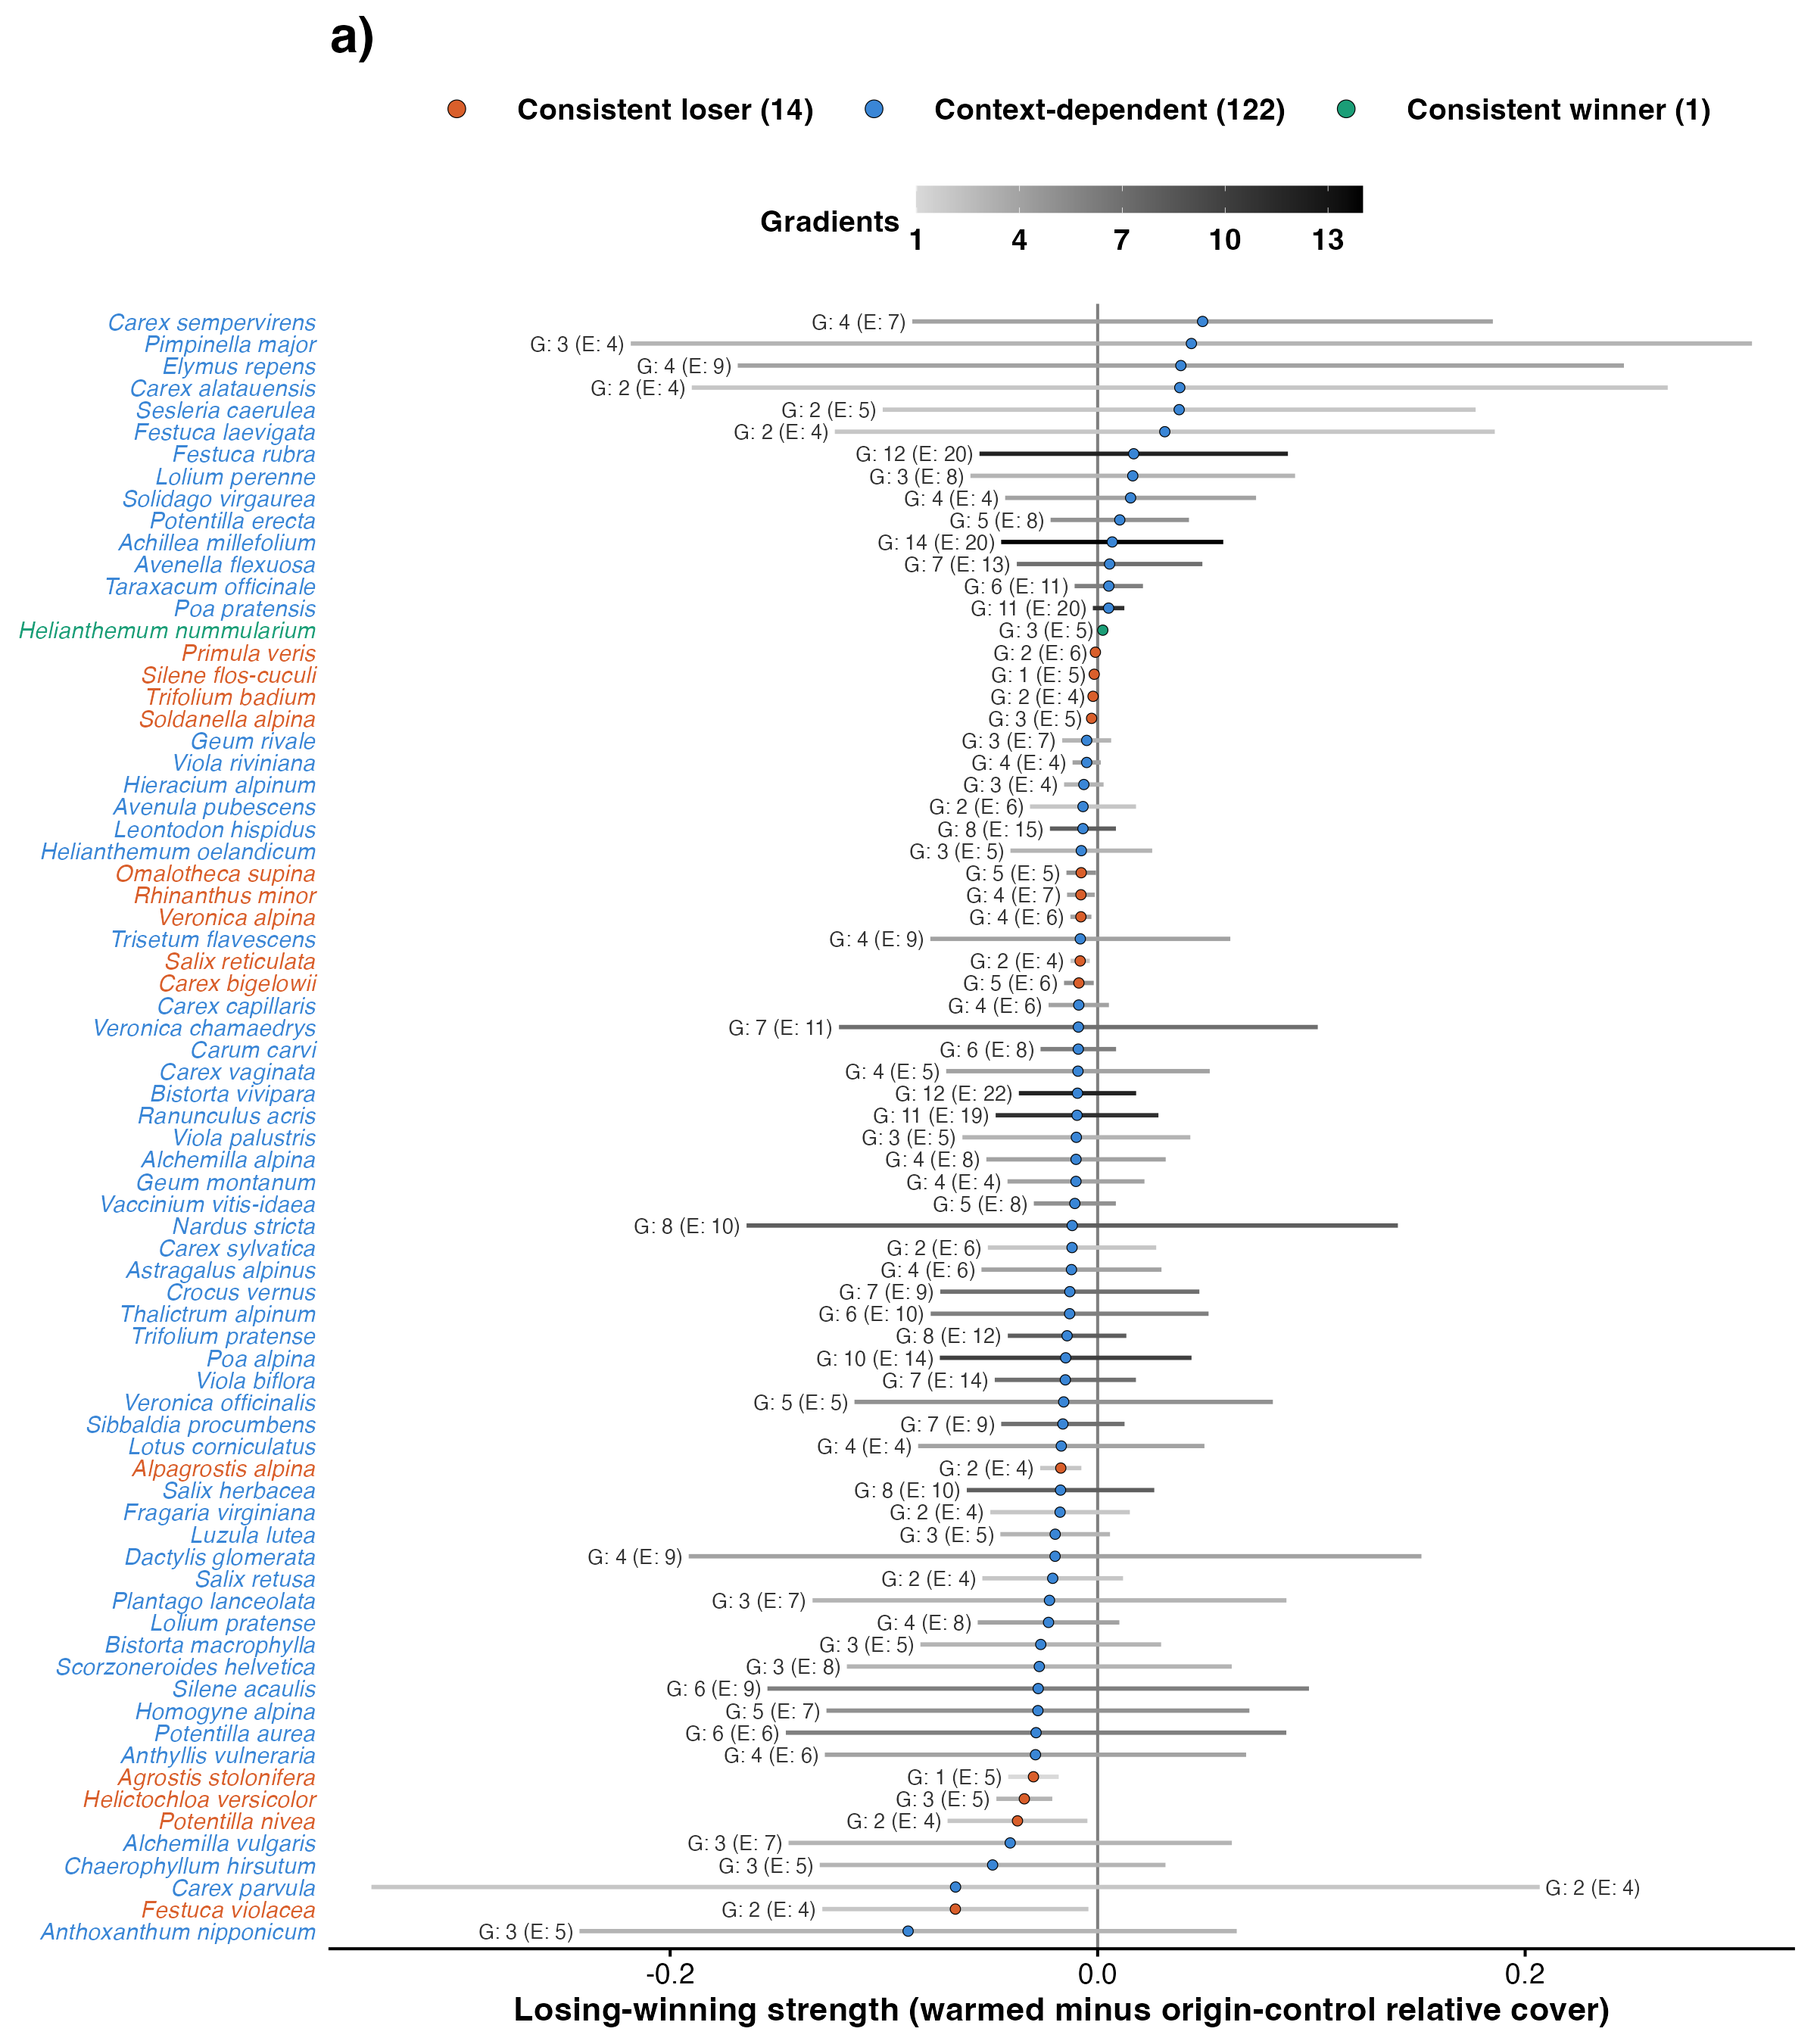
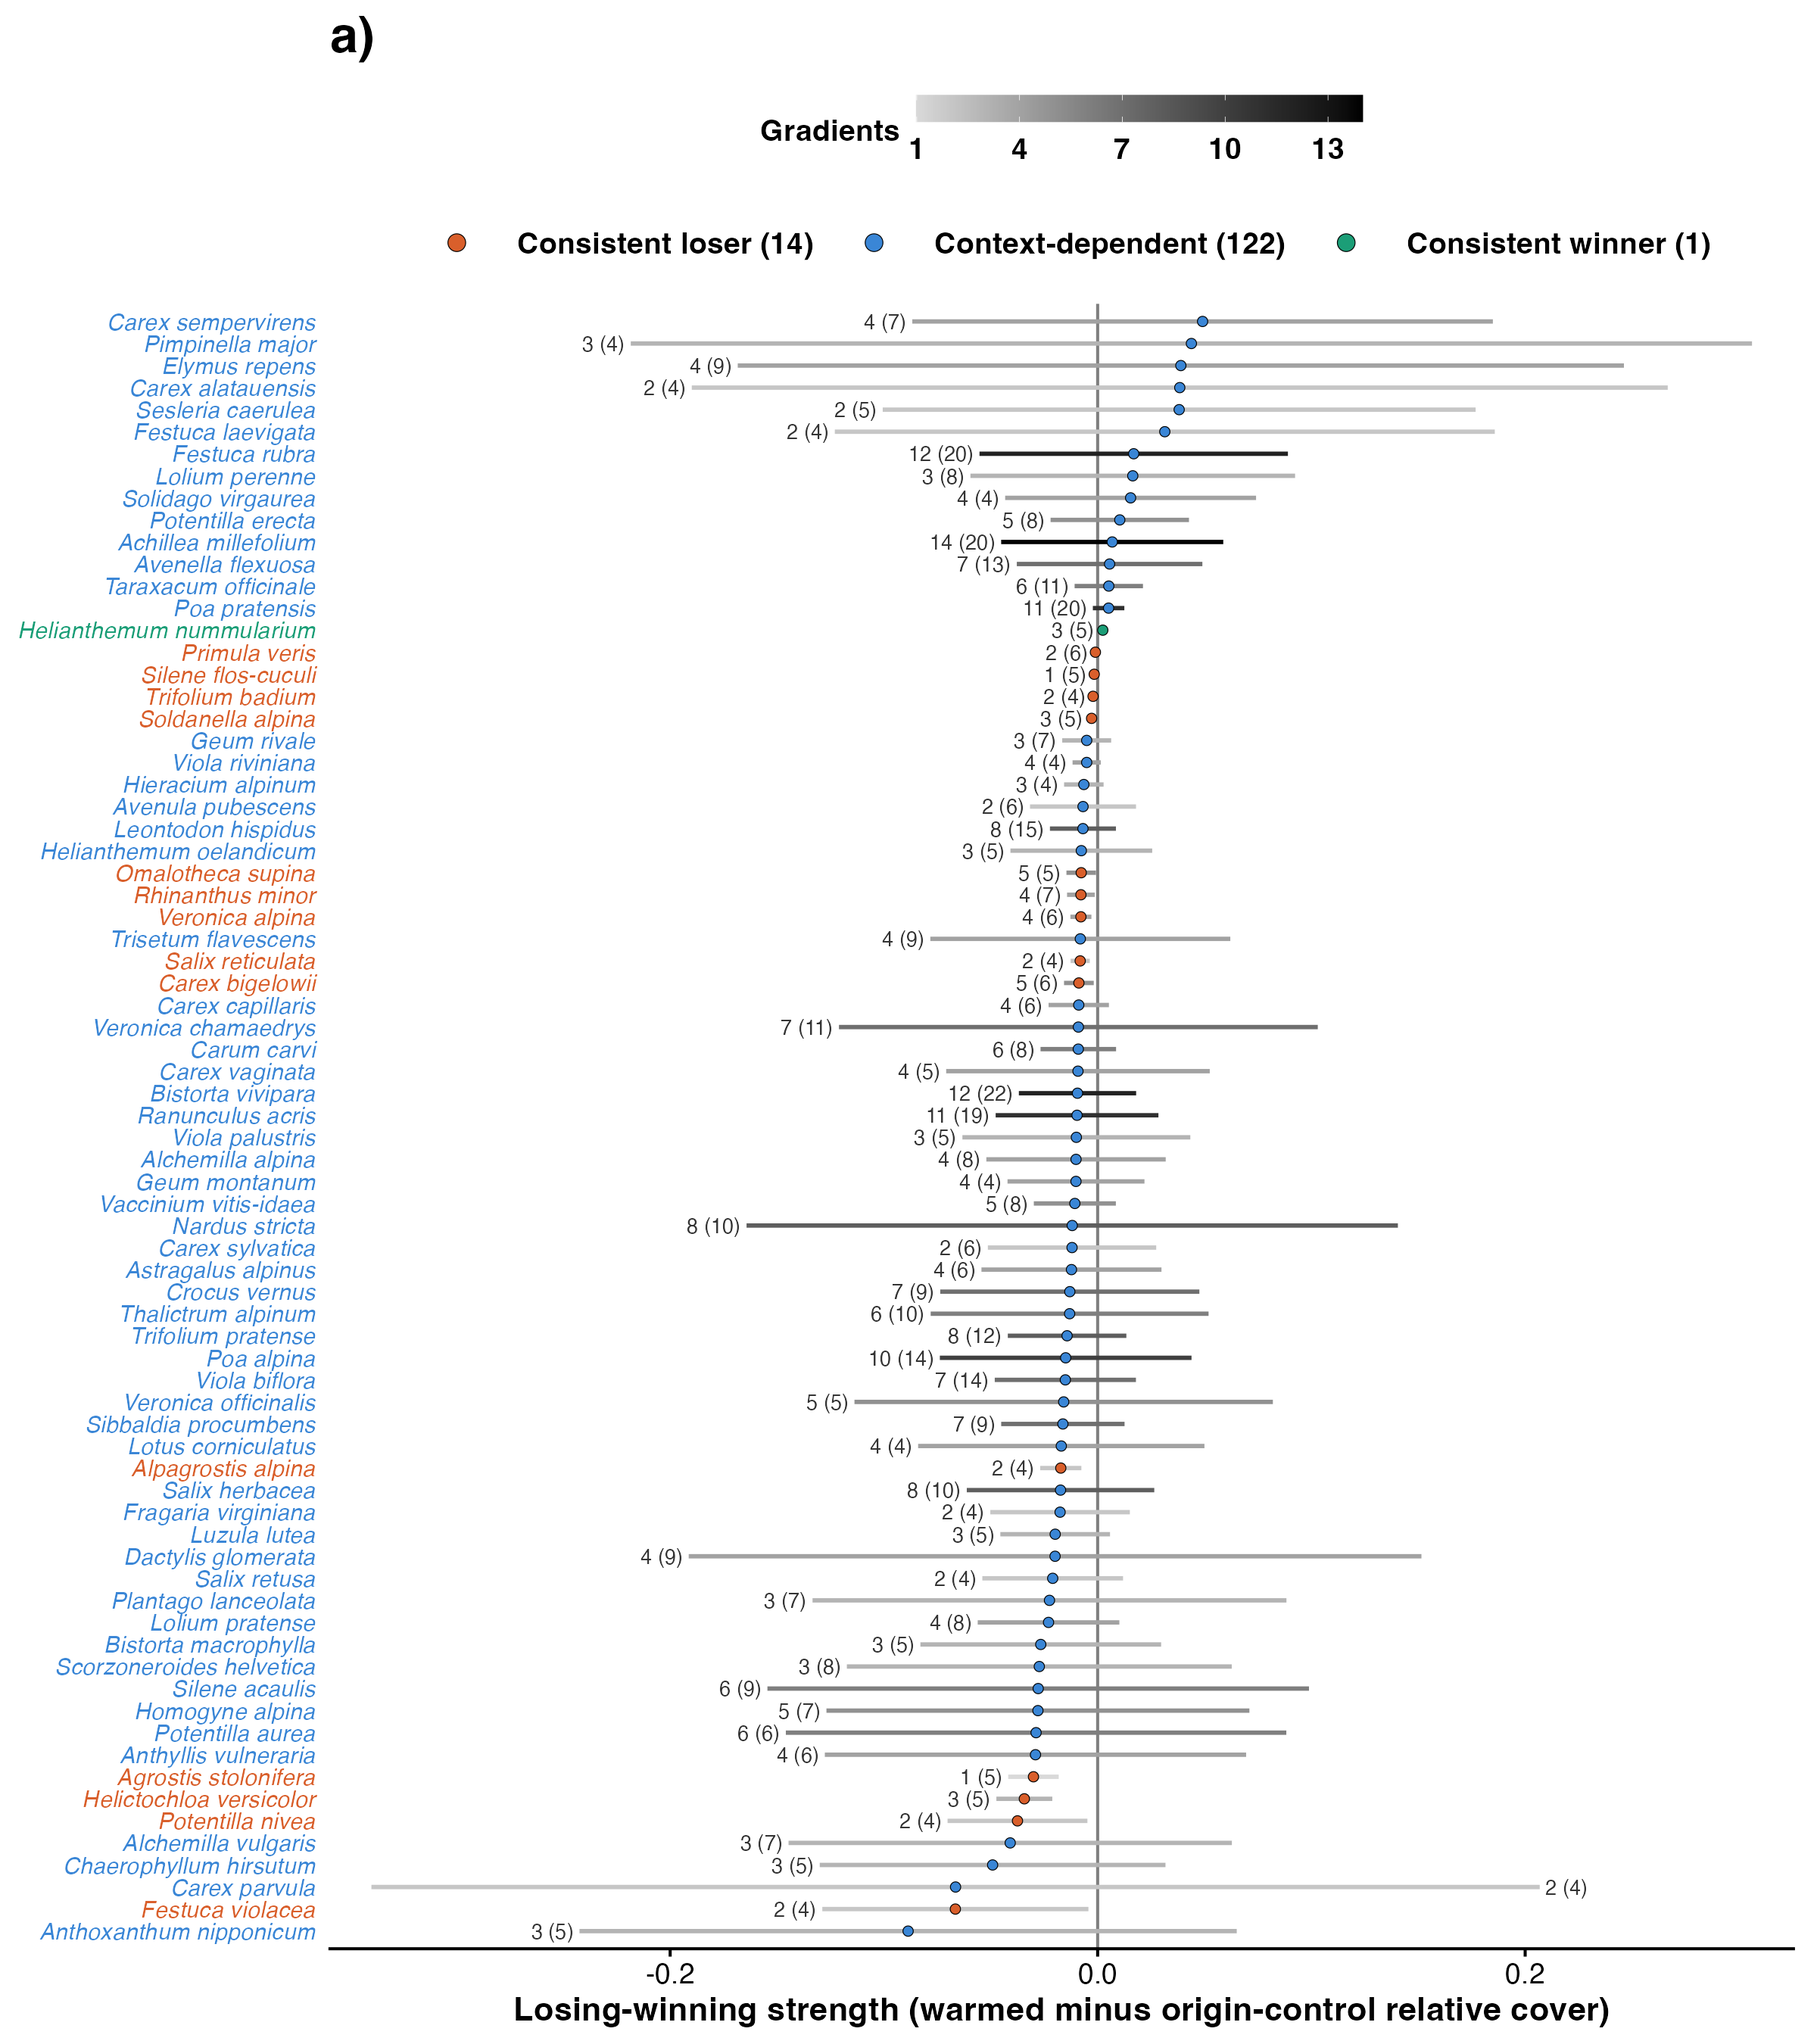
step 04: Fig S6 labels as 'gradients (experiments)' (Bills)

diff --git a/reports/04_classification.md b/reports/04_classification.md
@@ -61,7 +61,7 @@ Fig 2 corner panels follow once four species are named (MILESTONES).
 
 ![Fig S6 draft](../figures/diagnostics/04_figS6_draft.png)
 
-Fig S6: point = pooled strength, filled by class; line = 95% interval including the variation among experiments (a line that does not cross zero marks a consistent loser or winner), shaded by the number of gradients and labelled G: gradients (E: experiments). 63 context-dependent species with a pooled strength between -0.005 and +0.005 are not shown.
+Fig S6: point = pooled strength, filled by class; line = 95% interval including the variation among experiments (a line that does not cross zero marks a consistent loser or winner), shaded by the number of gradients and labelled gradients (experiments). 63 context-dependent species with a pooled strength between -0.005 and +0.005 are not shown.
 
 ## Warnings captured
 
